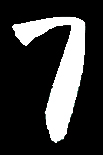
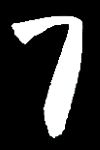
update font

diff --git a/字库/汉字取模/month.c b/字库/汉字取模/month.c
@@ -1,0 +1,10 @@
+const unsigned char gImage_month[128] = { /* 0X00,0X01,0X20,0X00,0X20,0X00, */
+0XFF,0XFF,0XFF,0XFF,0XFF,0XFF,0XFF,0XFF,0XFF,0XFF,0XEF,0XFF,0XFF,0XFF,0XC3,0XFF,
+0XFF,0XFF,0X01,0XFF,0XFF,0XFC,0X00,0XFF,0XFF,0X84,0X30,0XFF,0XFF,0XC0,0X71,0XFF,
+0XFF,0XE1,0XE1,0XFF,0XFF,0XF1,0XE1,0XFF,0XFF,0XF1,0XE1,0XFF,0XFF,0XF0,0X21,0XFF,
+0XFF,0XF0,0X01,0XFF,0XFF,0XE0,0X21,0XFF,0XFF,0XE0,0XE1,0XFF,0XFF,0XE3,0XE3,0XFF,
+0XFF,0XE0,0X63,0XFF,0XFF,0XE0,0X03,0XFF,0XFF,0XE2,0X03,0XFF,0XFF,0XE6,0X01,0XFF,
+0XFF,0XE7,0XF1,0XFF,0XFF,0XE7,0XF1,0XFF,0XFF,0XC7,0XF1,0XFF,0XFF,0XCF,0XE1,0XFF,
+0XFF,0X8E,0XE1,0XFF,0XFF,0X9F,0X01,0XFF,0XFF,0X7F,0X81,0XFF,0XFF,0XFF,0XC1,0XFF,
+0XFF,0XFF,0XF9,0XFF,0XFF,0XFF,0XFD,0XFF,0XFF,0XFF,0XFF,0XFF,0XFF,0XFF,0XFF,0XFF,
+};

diff --git a/字库/汉字取模/yera.c b/字库/汉字取模/yera.c
@@ -1,0 +1,10 @@
+const unsigned char gImage_yera[128] = { /* 0X00,0X01,0X20,0X00,0X20,0X00, */
+0XFF,0XFF,0XFF,0XFF,0XFF,0XFF,0XFF,0XFF,0XFF,0XC7,0XFF,0XFF,0XFF,0XE3,0XFF,0XFF,
+0XFF,0XF3,0X8F,0XFF,0XFF,0XE3,0X07,0XFF,0XFF,0XE0,0X07,0XFF,0XFF,0XE0,0X1F,0XFF,
+0XFF,0XE0,0X1F,0XFF,0XFF,0XC7,0X8F,0XFF,0XFF,0XCE,0X07,0XFF,0XFF,0X9C,0X0F,0XFF,
+0XFF,0X70,0X0F,0XFF,0XFF,0XE0,0X0F,0XFF,0XFF,0XFC,0X4F,0XFF,0XFF,0XFC,0X4C,0XFF,
+0XFF,0XFC,0X00,0X1F,0XFF,0XFC,0X00,0X1F,0XFF,0XF8,0X0F,0XFF,0XFF,0XC0,0X0F,0XFF,
+0XFF,0X01,0X8F,0XFF,0XF8,0X0F,0X8F,0XFF,0XF8,0X3F,0X8F,0XFF,0XFE,0XFF,0X8F,0XFF,
+0XFF,0XFF,0X8F,0XFF,0XFF,0XFF,0X8F,0XFF,0XFF,0XFF,0X8F,0XFF,0XFF,0XFF,0X8F,0XFF,
+0XFF,0XFF,0X9F,0XFF,0XFF,0XFF,0X9F,0XFF,0XFF,0XFF,0XFF,0XFF,0XFF,0XFF,0XFF,0XFF,
+};

diff --git a/字库/汉字取模/day.c b/字库/汉字取模/day.c
@@ -1,0 +1,10 @@
+const unsigned char gImage_day[128] = { /* 0X00,0X01,0X20,0X00,0X20,0X00, */
+0XFF,0XFF,0XFF,0XFF,0XFF,0XFF,0XFF,0XFF,0XFF,0XFF,0XFF,0XFF,0XFF,0XFF,0XFF,0XFF,
+0XFF,0XFF,0XFF,0XFF,0XFF,0XFF,0XFF,0XFF,0XFF,0XFF,0X87,0XFF,0XFF,0XFE,0X03,0XFF,
+0XFF,0X80,0X01,0XFF,0XFF,0X80,0X70,0XFF,0XFF,0XC1,0XF0,0XFF,0XFF,0XE3,0XF1,0XFF,
+0XFF,0XE3,0XF1,0XFF,0XFF,0XE3,0XF1,0XFF,0XFF,0XE0,0X70,0XFF,0XFF,0XE0,0X10,0XFF,
+0XFF,0XC0,0X30,0XFF,0XFF,0XC1,0XF1,0XFF,0XFF,0XE7,0XF0,0XFF,0XFF,0XE7,0XF0,0XFF,
+0XFF,0XE7,0XF0,0XFF,0XFF,0XC4,0XF0,0XFF,0XFF,0XC0,0XF0,0XFF,0XFF,0XC0,0X60,0XFF,
+0XFF,0X81,0X80,0XFF,0XFF,0XE7,0XC0,0XFF,0XFF,0XFF,0XF8,0XFF,0XFF,0XFF,0XFD,0XFF,
+0XFF,0XFF,0XFF,0XFF,0XFF,0XFF,0XFF,0XFF,0XFF,0XFF,0XFF,0XFF,0XFF,0XFF,0XFF,0XFF,
+};

diff --git a/字库/数字取模/0.c b/字库/数字取模/0.c
@@ -1,0 +1,5 @@
+const unsigned char gImage_0[48] = { /* 0X00,0X01,0X10,0X00,0X18,0X00, */
+0XFF,0XFF,0XFF,0XFF,0XFF,0XFF,0XFF,0XFF,0XFF,0XFF,0XFF,0XBF,0XFE,0X1F,0XFC,0X0F,
+0XF8,0X07,0XF0,0X83,0XF1,0XC3,0XE3,0XE1,0XC3,0XE3,0XC7,0XC3,0XC7,0XC7,0XC7,0X8F,
+0XC6,0X3F,0XC0,0X7F,0XC1,0XFF,0XF7,0XFF,0XFF,0XFF,0XFF,0XFF,0XFF,0XFF,0XFF,0XFF,
+};

diff --git a/字库/数字取模/1.c b/字库/数字取模/1.c
@@ -1,0 +1,5 @@
+const unsigned char gImage_1[48] = { /* 0X00,0X01,0X10,0X00,0X18,0X00, */
+0XFF,0XFF,0XFF,0XFF,0XFF,0XFF,0XFF,0XFF,0XFF,0XFF,0XFF,0XBF,0XFF,0X1F,0XFF,0X1F,
+0XFE,0X1F,0XFE,0X1F,0XFE,0X3F,0XFC,0X3F,0XFC,0X3F,0XF8,0X7F,0XF8,0X7F,0XF8,0XFF,
+0XF0,0XFF,0XF1,0XFF,0XF9,0XFF,0XFF,0XFF,0XFF,0XFF,0XFF,0XFF,0XFF,0XFF,0XFF,0XFF,
+};

diff --git a/字库/数字取模/2.c b/字库/数字取模/2.c
@@ -1,0 +1,5 @@
+const unsigned char gImage_2[48] = { /* 0X00,0X01,0X10,0X00,0X18,0X00, */
+0XFF,0XFF,0XFF,0XFF,0XFF,0XFF,0XFF,0XFF,0XF9,0XFF,0XE0,0X7F,0XF6,0X3F,0XFF,0X1F,
+0XFF,0X1F,0XFF,0X0F,0XFE,0X1F,0XFC,0X1F,0XF8,0X3F,0XF0,0X01,0XF0,0X01,0XC0,0X01,
+0X80,0X01,0XC0,0X0F,0XC0,0XFF,0XC7,0XFF,0XFF,0XFF,0XFF,0XFF,0XFF,0XFF,0XFF,0XFF,
+};

diff --git a/字库/数字取模/3.c b/字库/数字取模/3.c
@@ -1,0 +1,5 @@
+const unsigned char gImage_3[48] = { /* 0X00,0X01,0X10,0X00,0X18,0X00, */
+0XFF,0XFF,0XFF,0XFF,0XFF,0XFF,0XF9,0XFF,0XF8,0X7F,0XFC,0X7F,0XFE,0X3F,0XFC,0X3F,
+0XFC,0X3F,0XF8,0X0F,0XF0,0X07,0XE0,0X07,0XE1,0XC3,0XF7,0X83,0XFF,0X07,0XFE,0X0F,
+0XFE,0X0F,0XFC,0X1F,0XF8,0X3F,0XF0,0XFF,0XE1,0XFF,0XE7,0XFF,0XFF,0XFF,0XFF,0XFF,
+};

diff --git a/字库/数字取模/4.c b/字库/数字取模/4.c
@@ -1,0 +1,5 @@
+const unsigned char gImage_4[48] = { /* 0X00,0X01,0X10,0X00,0X18,0X00, */
+0XFF,0XFF,0XFF,0XFF,0XFF,0XFF,0XFB,0XFF,0XF9,0XCF,0XF9,0X8F,0XF1,0X8F,0XF1,0X8F,
+0XF1,0X0F,0XE3,0X1F,0XC3,0X07,0XC7,0X01,0X80,0X01,0X80,0X1F,0X82,0X3F,0XFE,0X3F,
+0XFC,0X3F,0XFC,0X3F,0XFC,0X7F,0XFC,0X7F,0XFF,0XFF,0XFF,0XFF,0XFF,0XFF,0XFF,0XFF,
+};

diff --git a/字库/数字取模/5.c b/字库/数字取模/5.c
@@ -1,0 +1,5 @@
+const unsigned char gImage_5[48] = { /* 0X00,0X01,0X10,0X00,0X18,0X00, */
+0XFF,0XFF,0XFF,0XFF,0XFF,0X83,0XFC,0X07,0XE0,0X3F,0XE1,0XFF,0XE3,0XFF,0XE3,0XFF,
+0XC0,0X1F,0XC0,0X0F,0X80,0X07,0X83,0XE3,0XC7,0XE3,0XCF,0XE3,0XFF,0XE3,0XFF,0XC3,
+0XFF,0X83,0XFE,0X07,0XF0,0X0F,0XF0,0X0F,0XF0,0X3F,0XF8,0XFF,0XFF,0XFF,0XFF,0XFF,
+};

diff --git a/字库/数字取模/6.c b/字库/数字取模/6.c
@@ -1,0 +1,5 @@
+const unsigned char gImage_6[48] = { /* 0X00,0X01,0X10,0X00,0X18,0X00, */
+0XFF,0XFF,0XFF,0XFF,0XFF,0XEF,0XFF,0X8F,0XFF,0X3F,0XFE,0X7F,0XFC,0XFF,0XFC,0XFF,
+0XF9,0XFF,0XF0,0X3F,0XF0,0X0F,0XF0,0X07,0XE0,0X07,0XE3,0X83,0XE3,0X83,0XE3,0X87,
+0XC3,0X07,0XC0,0X0F,0XE0,0X1F,0XE0,0X3F,0XF0,0XFF,0XFF,0XFF,0XFF,0XFF,0XFF,0XFF,
+};

diff --git a/字库/数字取模/7.c b/字库/数字取模/7.c
@@ -1,0 +1,5 @@
+const unsigned char gImage_7[48] = { /* 0X00,0X01,0X10,0X00,0X18,0X00, */
+0XFF,0XFF,0XFF,0XFF,0XFF,0XFF,0XF0,0X07,0XC0,0XE7,0XC3,0XE7,0XE7,0XC7,0XFF,0XC7,
+0XFF,0XC7,0XFF,0X87,0XFF,0X87,0XFF,0X87,0XFF,0X0F,0XFF,0X0F,0XFF,0X0F,0XFF,0X0F,
+0XFE,0X1F,0XFE,0X1F,0XFE,0X1F,0XFE,0X1F,0XFF,0X3F,0XFF,0X3F,0XFF,0XFF,0XFF,0XFF,
+};

diff --git a/字库/数字取模/8.c b/字库/数字取模/8.c
@@ -1,0 +1,5 @@
+const unsigned char gImage_8[48] = { /* 0X00,0X01,0X10,0X00,0X18,0X00, */
+0XFF,0XFF,0XFF,0XFF,0XFE,0X1F,0XFC,0X07,0XF8,0X03,0XF0,0XC3,0XE3,0XE3,0XC7,0XE3,
+0XCF,0XC7,0XCF,0X87,0X8C,0X0F,0XC0,0X07,0XE0,0X07,0XF0,0X23,0XE0,0X63,0XC3,0XE3,
+0XC7,0XC3,0X87,0X83,0X84,0X07,0XC0,0X1F,0XC0,0X3F,0XF1,0XFF,0XFF,0XFF,0XFF,0XFF,
+};
